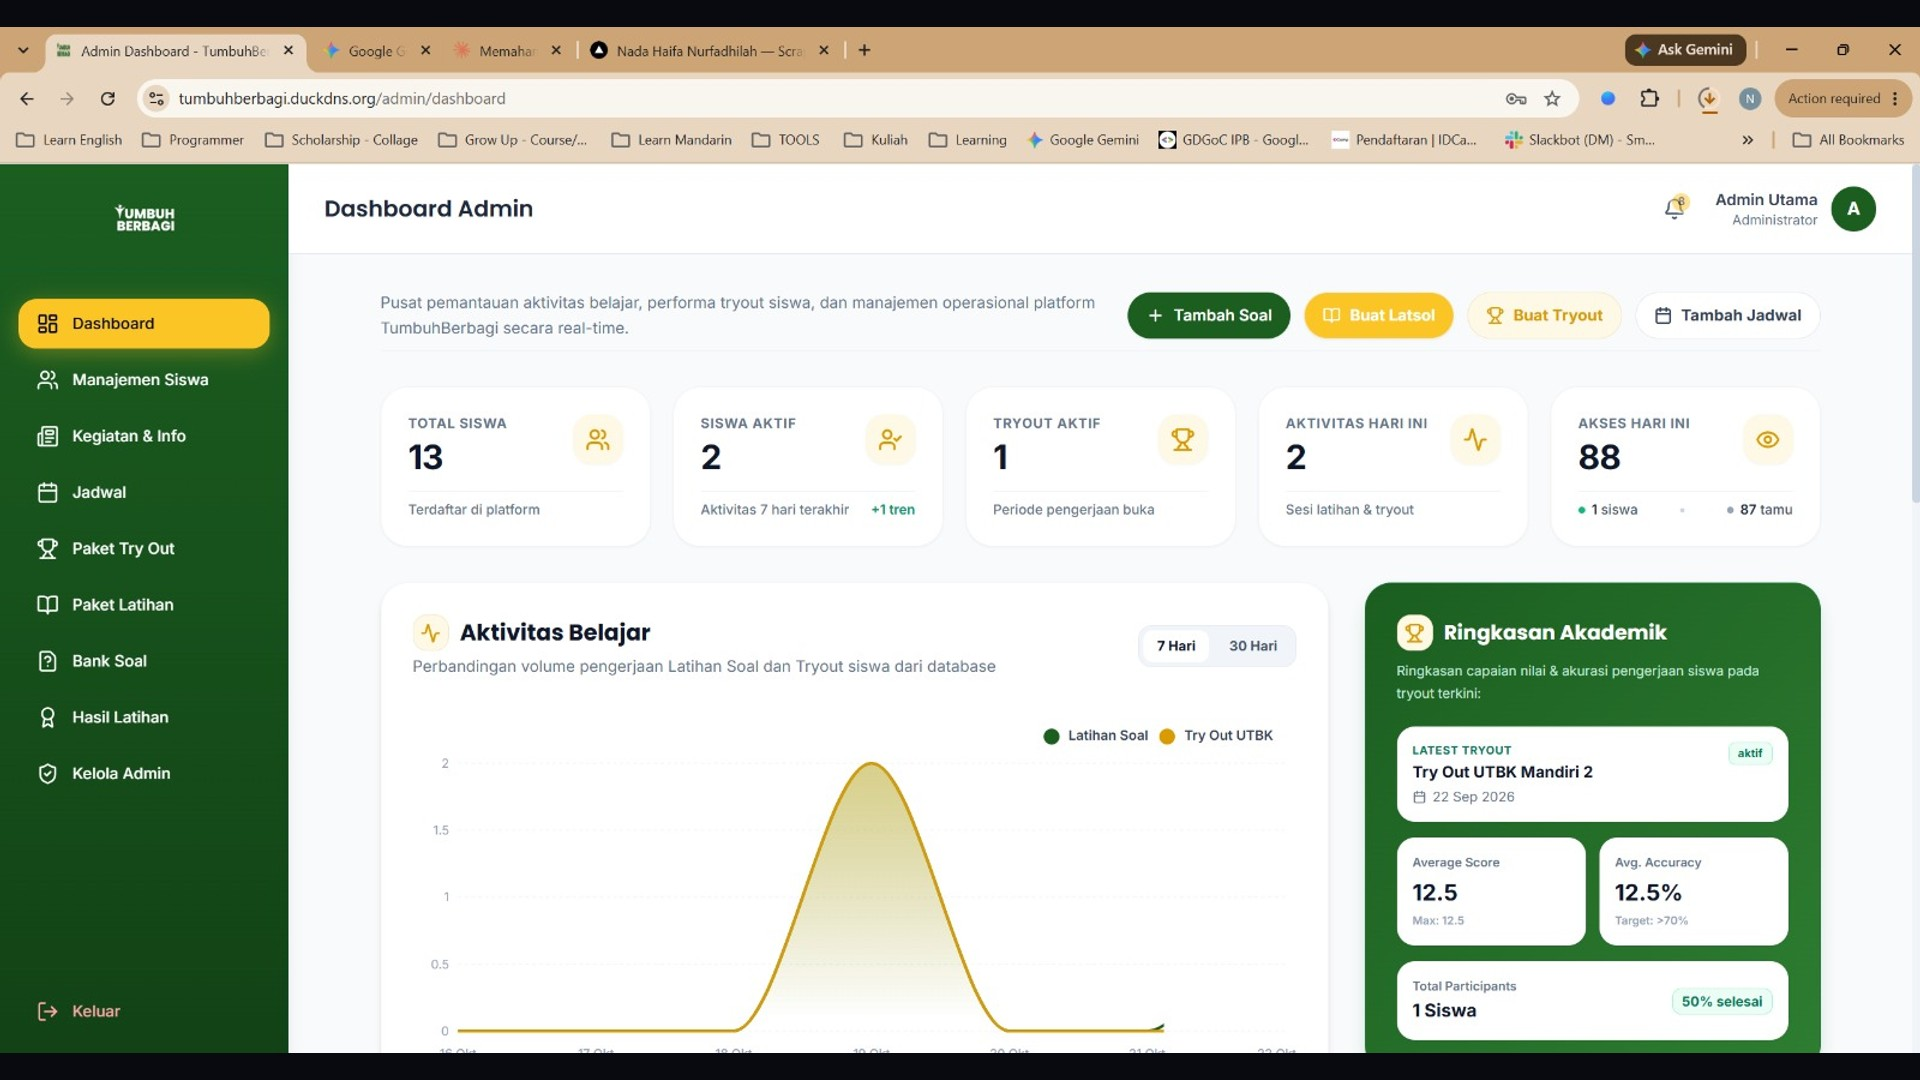
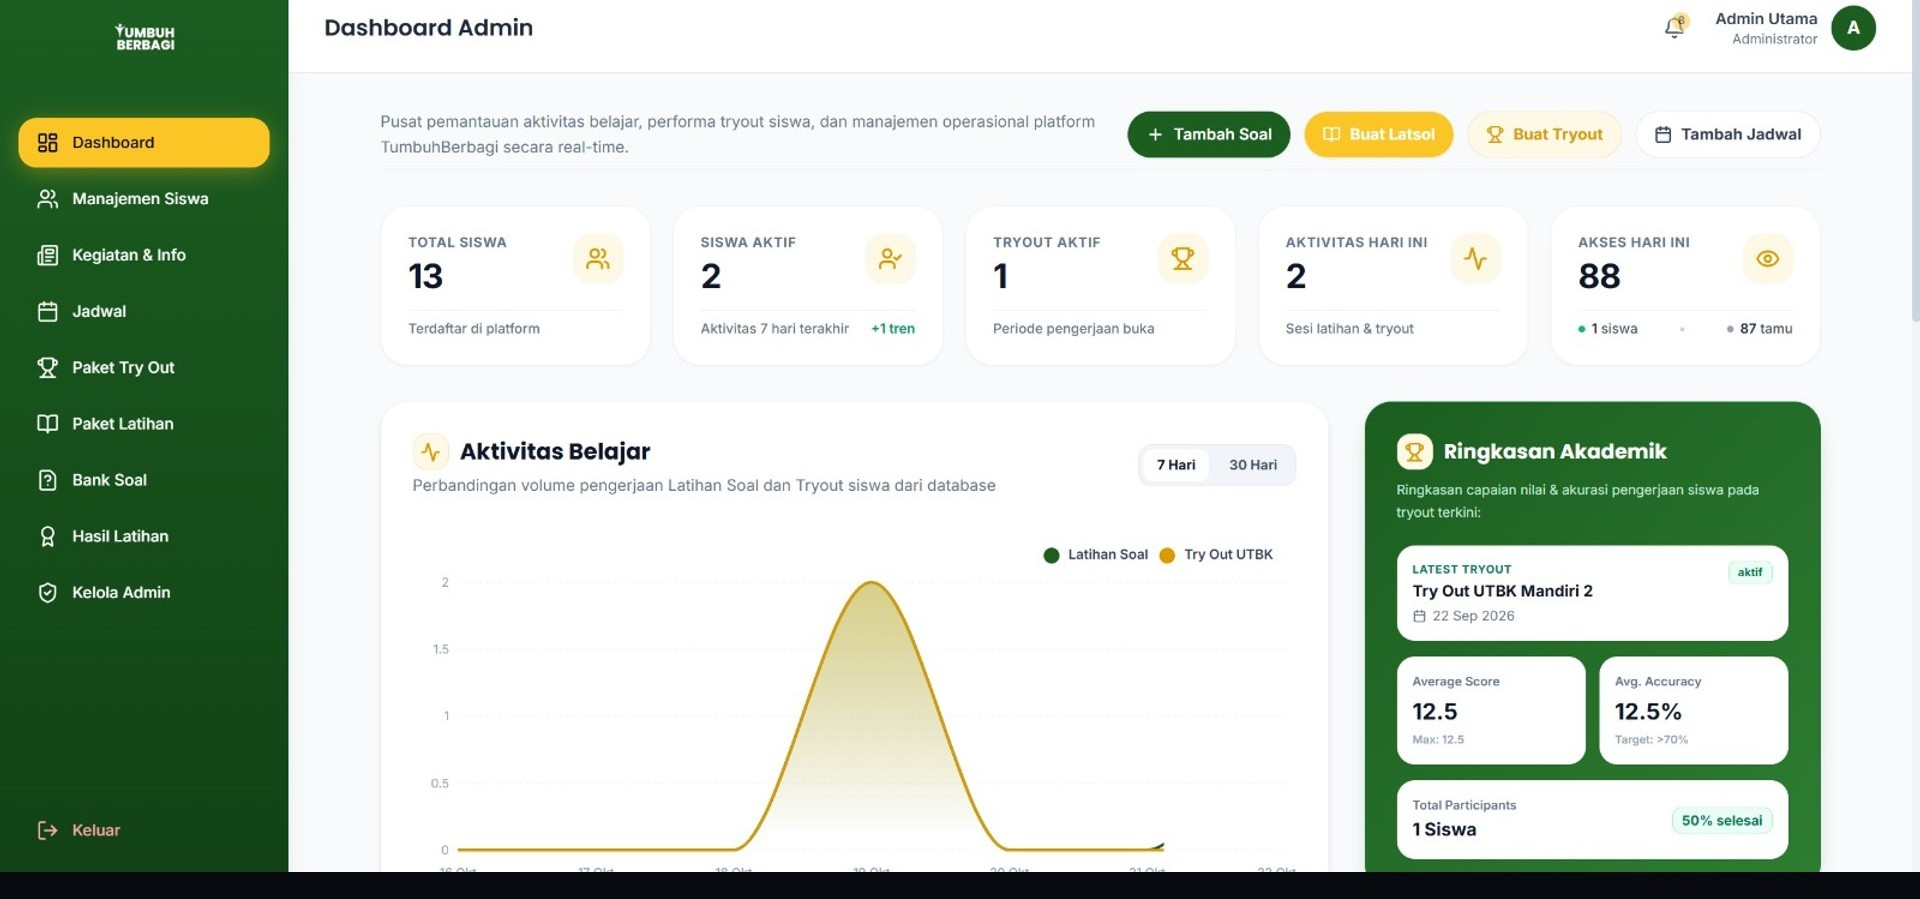
Polish navbar, cursor, and layout; optimize tumbuh showcase image

diff --git a/components/CustomCursor.tsx b/components/CustomCursor.tsx
@@ -24,7 +24,12 @@ export function CustomCursor() {
     const updatePointerType = () => setIsDesktop(mediaQuery.matches);
     updatePointerType();
 
-    mediaQuery.addEventListener("change", updatePointerType);
+    if (mediaQuery.addEventListener) {
+      mediaQuery.addEventListener("change", updatePointerType);
+    } else if ("addListener" in mediaQuery) {
+      // iOS Safari fallback
+      (mediaQuery as any).addListener(updatePointerType);
+    }
 
     const checkElementAtPoint = (target: HTMLElement | null) => {
       if (!target) return;
@@ -51,7 +56,7 @@ export function CustomCursor() {
     const handleMouseMove = (e: MouseEvent) => {
       mouseX.set(e.clientX);
       mouseY.set(e.clientY);
-      if (!isVisible) setIsVisible(true);
+      setIsVisible(true);
       checkElementAtPoint(e.target as HTMLElement | null);
     };
 
@@ -72,7 +77,11 @@ export function CustomCursor() {
     document.documentElement.addEventListener("mouseenter", handleMouseEnter);
 
     return () => {
-      mediaQuery.removeEventListener("change", updatePointerType);
+      if (mediaQuery.removeEventListener) {
+        mediaQuery.removeEventListener("change", updatePointerType);
+      } else if ("removeListener" in mediaQuery) {
+        (mediaQuery as any).removeListener(updatePointerType);
+      }
       window.removeEventListener("mousemove", handleMouseMove);
       window.removeEventListener("mouseover", handleMouseOver);
       window.removeEventListener("mousedown", handleMouseDown);
@@ -80,7 +89,7 @@ export function CustomCursor() {
       document.documentElement.removeEventListener("mouseleave", handleMouseLeave);
       document.documentElement.removeEventListener("mouseenter", handleMouseEnter);
     };
-  }, [mouseX, mouseY, isVisible]);
+  }, [mouseX, mouseY]);
 
   if (!isDesktop) return null;
 

diff --git a/components/Navbar.tsx b/components/Navbar.tsx
@@ -43,11 +43,8 @@ export function Navbar() {
 
   return (
     <>
-      <motion.header
-        initial={{ y: -20, opacity: 0 }}
-        animate={{ y: 0, opacity: 1 }}
-        transition={{ duration: 0.5, ease: [0.16, 1, 0.3, 1] }}
-        className="fixed top-5 left-1/2 -translate-x-1/2 z-50 pointer-events-auto"
+      <header
+        className="fixed top-[max(1rem,env(safe-area-inset-top))] sm:top-5 left-1/2 -translate-x-1/2 z-50 pointer-events-auto max-w-[calc(100vw-1rem)]"
       >
         <nav
           aria-label="Main Navigation"
@@ -169,13 +166,10 @@ export function Navbar() {
             })}
           </div>
         </nav>
-      </motion.header>
+      </header>
 
       {/* Standalone Desktop Work Pill Button (Anton & Irene style - Fixed Top-Right) */}
-      <motion.div
-        initial={{ y: -20, opacity: 0 }}
-        animate={{ y: 0, opacity: 1 }}
-        transition={{ duration: 0.5, delay: 0.05, ease: [0.16, 1, 0.3, 1] }}
+      <div
         className="fixed top-5 right-6 sm:right-8 z-50 hidden md:block pointer-events-auto"
       >
         <button
@@ -189,7 +183,7 @@ export function Navbar() {
         >
           <span>{isWorkOpen ? "✕ Close" : "Work"}</span>
         </button>
-      </motion.div>
+      </div>
 
       {/* Anton & Irene Full-Screen Work Drawer & Case Study Overlay */}
       <WorkDrawerOverlay

diff --git a/app/layout.tsx b/app/layout.tsx
@@ -1,8 +1,14 @@
-import type { Metadata } from "next";
+import type { Metadata, Viewport } from "next";
 import "./globals.css";
 import { SmoothScroll } from "@/components/SmoothScroll";
 import { PageTransitionProvider } from "@/components/PageTransition";
 import { CustomCursor } from "@/components/CustomCursor";
+
+export const viewport: Viewport = {
+  width: "device-width",
+  initialScale: 1,
+  viewportFit: "cover",
+};
 
 export const metadata: Metadata = {
   title: "Sausan Asma' Mufiidah — Portfolio",
@@ -17,7 +23,6 @@ export const metadata: Metadata = {
     "IPB University",
   ],
   authors: [{ name: "Sausan Asma' Mufiidah" }],
-  viewport: "width=device-width, initial-scale=1",
 };
 
 export default function RootLayout({

diff --git a/app/page.tsx b/app/page.tsx
@@ -175,7 +175,7 @@ export default function Home() {
           >
             <span className="relative z-10">View Resume</span>
             <span className="relative z-10 font-mono text-sm opacity-60 group-hover:opacity-100 transition-opacity">
-              ↗
+              &#8599;
             </span>
             {/* Subtle hover sweep effect */}
             <div className="absolute inset-0 bg-white/10 dark:bg-black/5 translate-y-full group-hover:translate-y-0 transition-transform duration-300 ease-out" />
